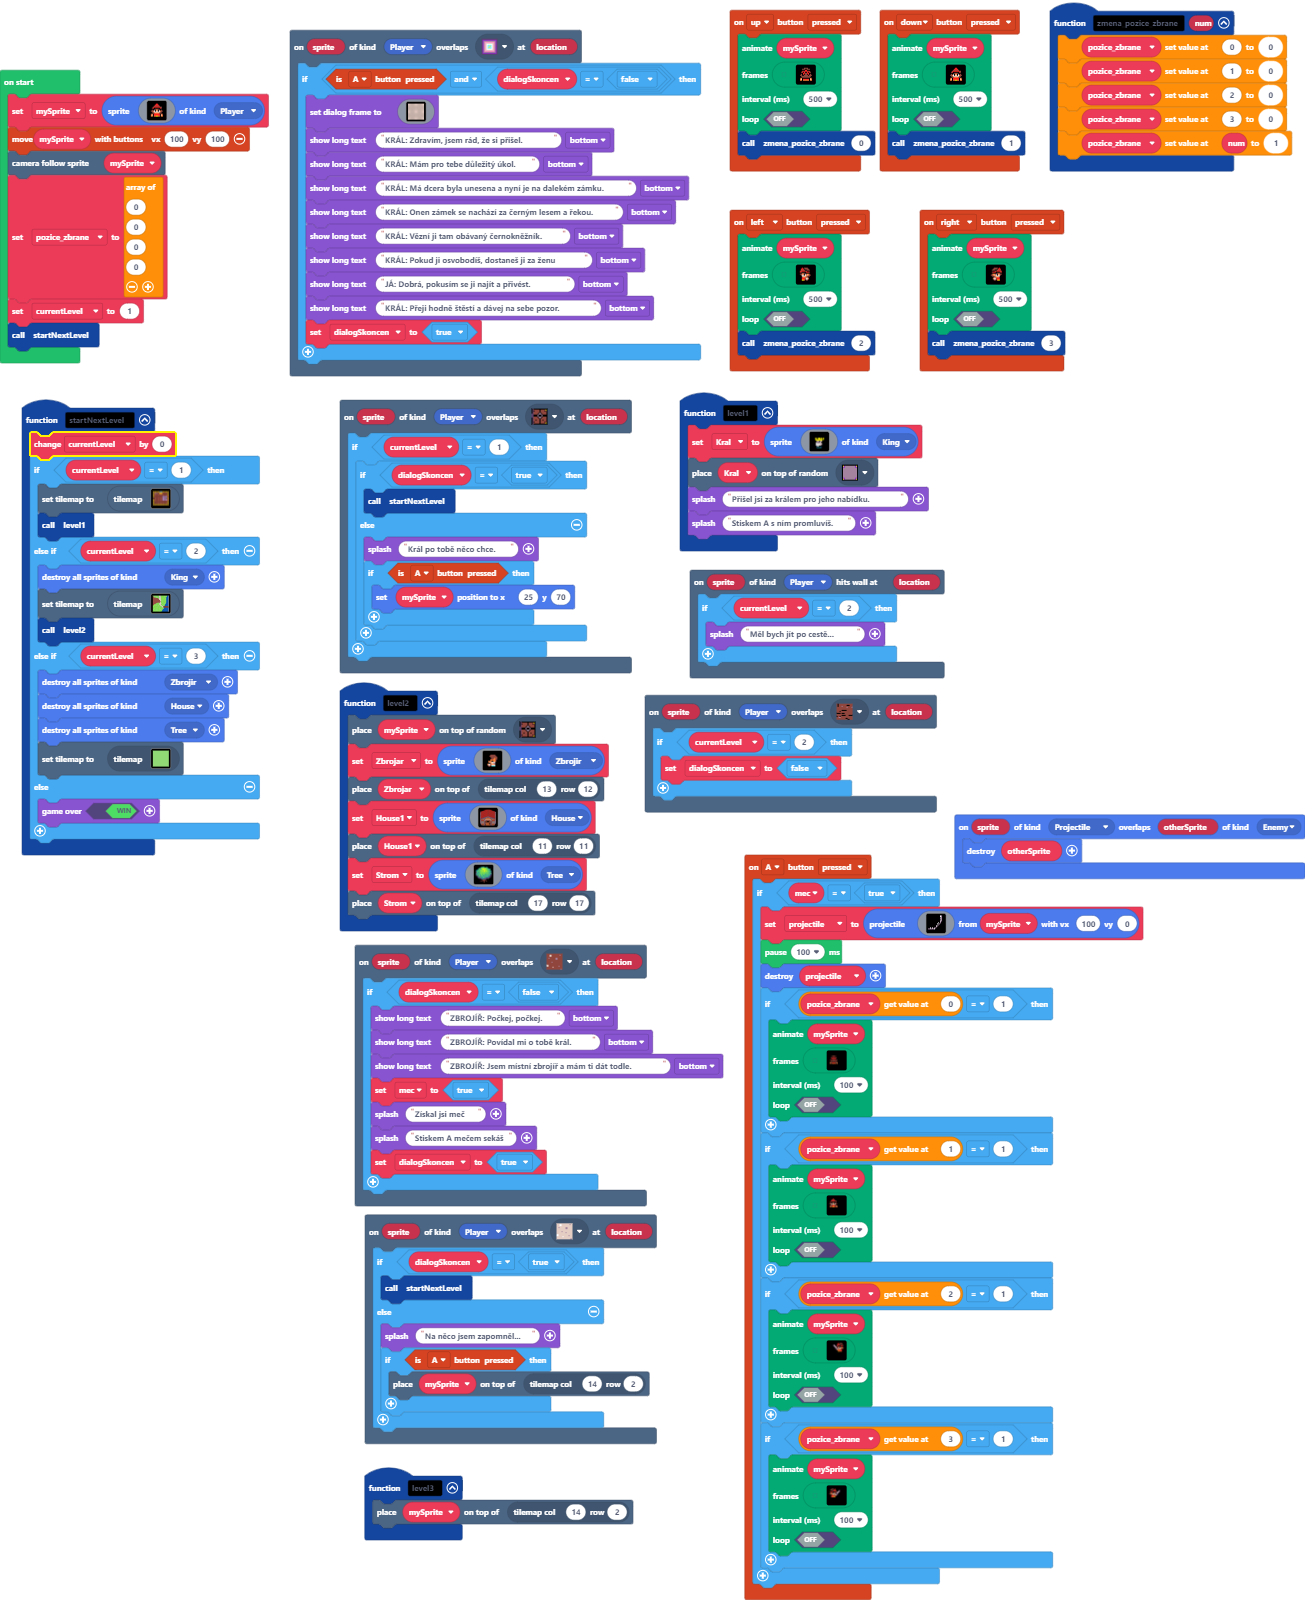
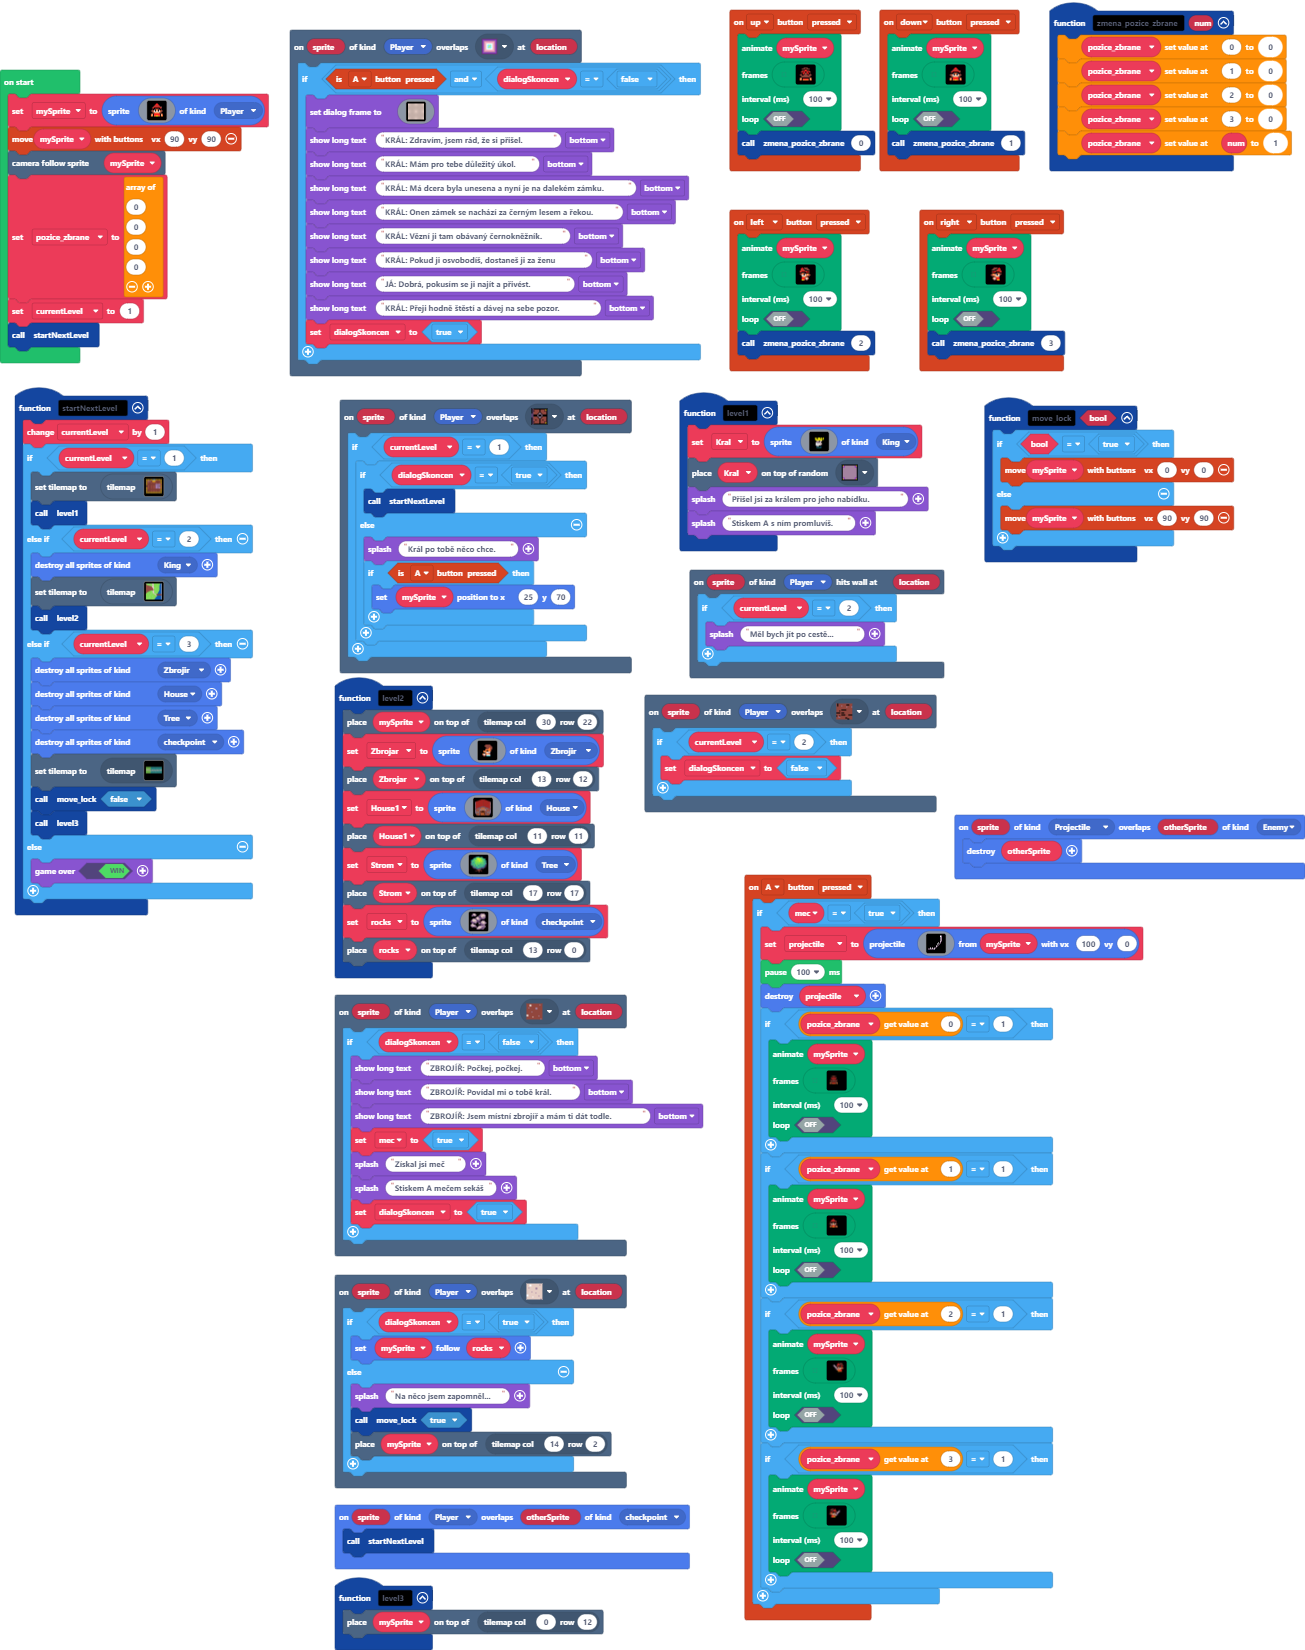
Update main.blocks, main.ts, tilemap.g.jres, tilemap.g.ts, images.g.jres, images.g.ts

diff --git a/tilemap.g.ts b/tilemap.g.ts
@@ -72,6 +72,18 @@ namespace myTiles {
     export const tile34 = image.ofBuffer(hex``);
     //% fixedInstance jres blockIdentity=images._tile
     export const tile35 = image.ofBuffer(hex``);
+    //% fixedInstance jres blockIdentity=images._tile
+    export const tile36 = image.ofBuffer(hex``);
+    //% fixedInstance jres blockIdentity=images._tile
+    export const tile37 = image.ofBuffer(hex``);
+    //% fixedInstance jres blockIdentity=images._tile
+    export const tile38 = image.ofBuffer(hex``);
+    //% fixedInstance jres blockIdentity=images._tile
+    export const tile39 = image.ofBuffer(hex``);
+    //% fixedInstance jres blockIdentity=images._tile
+    export const tile40 = image.ofBuffer(hex``);
+    //% fixedInstance jres blockIdentity=images._tile
+    export const tile41 = image.ofBuffer(hex``);
 
     helpers._registerFactory("tilemap", function(name: string) {
         switch(helpers.stringTrim(name)) {
@@ -189,18 +201,6 @@ namespace myTiles {
 . . . . . . . . . . . . . . . . 
 . . . . . . . . . . . . . . . . 
 `, [myTiles.transparency16], TileScale.Sixteen);
-            case "level1":
[1 lines of base64/hex data omitted]
-2 2 2 2 2 2 2 2 2 2 
-2 . . . . . . . . 2 
-2 . . . . . . . . 2 
-. . . . . . . . . 2 
-. . . . . . . . . 2 
-. . . . . . . . . 2 
-2 . . . . . . . . 2 
-2 . . . . . . . . 2 
-2 2 2 2 2 2 2 2 2 2 
-`, [myTiles.transparency16,myTiles.tile2,myTiles.tile3,myTiles.tile6,myTiles.tile7,myTiles.tile8,myTiles.tile9,myTiles.tile10,myTiles.tile11,myTiles.tile13,myTiles.tile1,myTiles.tile16,myTiles.tile18,myTiles.tile19,myTiles.tile20,sprites.dungeon.chestClosed,myTiles.tile21,sprites.dungeon.chestOpen,myTiles.tile22,myTiles.tile34], TileScale.Sixteen);
             case "level9":
             case "level9":return tiles.createTilemap(hex`1000100000000000000000000000000000000000000000000000000000000000000000000000000000000000000000000000000000000000000000000000000000000000000000000000000000000000000000000000000000000000000000000000000000000000000000000000000000000000000000000000000000000000000000000000000000000000000000000000000000000000000000000000000000000000000000000000000000000000000000000000000000000000000000000000000000000000000000000000000000000000000000000000000000000000000000000000000000000000000000000000000000000000000000000000000000000000`, img`
 . . . . . . . . . . . . . . . . 
@@ -467,8 +467,67 @@ namespace myTiles {
 . . . . . . . . . . . . . . . . 
 . . . . . . . . . . . . . . . . 
 `, [myTiles.transparency16], TileScale.Sixteen);
+            case "level23":
+            case "level23":return tiles.createTilemap(hex`1000100000000000000000000000000000000000000000000000000000000000000000000000000000000000000000000000000000000000000000000000000000000000000000000000000000000000000000000000000000000000000000000000000000000000000000000000000000000000000000000000000000000000000000000000000000000000000000000000000000000000000000000000000000000000000000000000000000000000000000000000000000000000000000000000000000000000000000000000000000000000000000000000000000000000000000000000000000000000000000000000000000000000000000000000000000000000`, img`
+. . . . . . . . . . . . . . . . 
+. . . . . . . . . . . . . . . . 
+. . . . . . . . . . . . . . . . 
+. . . . . . . . . . . . . . . . 
+. . . . . . . . . . . . . . . . 
+. . . . . . . . . . . . . . . . 
+. . . . . . . . . . . . . . . . 
+. . . . . . . . . . . . . . . . 
+. . . . . . . . . . . . . . . . 
+. . . . . . . . . . . . . . . . 
+. . . . . . . . . . . . . . . . 
+. . . . . . . . . . . . . . . . 
+. . . . . . . . . . . . . . . . 
+. . . . . . . . . . . . . . . . 
+. . . . . . . . . . . . . . . . 
+. . . . . . . . . . . . . . . . 
+`, [myTiles.transparency16], TileScale.Sixteen);
+            case "level1":
[1 lines of base64/hex data omitted]
+2 2 2 2 2 2 2 2 2 2 
+2 . . . . . . . . 2 
+2 . . . . . . . . 2 
+. . . . . . . . . 2 
+. . . . . . . . . 2 
+. . . . . . . . . 2 
+2 . . . . . . . . 2 
+2 . . . . . . . . 2 
+2 2 2 2 2 2 2 2 2 2 
+`, [myTiles.transparency16,myTiles.tile2,myTiles.tile3,myTiles.tile6,myTiles.tile7,myTiles.tile8,myTiles.tile9,myTiles.tile10,myTiles.tile11,myTiles.tile13,myTiles.tile1,myTiles.tile16,myTiles.tile18,myTiles.tile19,myTiles.tile20,sprites.dungeon.chestClosed,myTiles.tile21,sprites.dungeon.chestOpen,myTiles.tile22,myTiles.tile34], TileScale.Sixteen);
+            case "level0":
[1 lines of base64/hex data omitted]
+2.............2222..............................................
+2...........222.................................................
+2.........222...................................................
+2.......222.....................................................
+2......22.......................................................
+2....22.........................................................
+2..22...........................................................
+2.22............................................................
+22..............................................................
+2...............................................................
+2...............................................................
+................................................................
+................................................................
+................................................................
+2...............................................................
+2...............................................................
+2...............................................................
+2...............................................................
+222.............................................................
+2.222...........................................................
+2...222.........................................................
+2.....22........................................................
+2......222......................................................
+2........2222...................................................
+2............2222...............................................
+`, [myTiles.transparency16,sprites.castle.tilePath5,sprites.castle.tileGrass1,sprites.castle.tileGrass2,sprites.castle.tileGrass3,sprites.castle.tilePath7,sprites.castle.tilePath1,sprites.castle.tilePath2,sprites.castle.tilePath3,sprites.castle.tilePath8,sprites.castle.tilePath9,sprites.castle.tileDarkGrass1,myTiles.tile35,sprites.castle.tileDarkGrass3,sprites.castle.tileDarkGrass2,myTiles.tile36,myTiles.tile37,myTiles.tile38,sprites.castle.tilePath6,myTiles.tile39,myTiles.tile40,myTiles.tile41], TileScale.Sixteen);
             case "level2":
[2 lines of base64/hex data omitted]
 2.......2...........22.......222
 2.......2............2......2222
 2.......2............22222222222
@@ -502,44 +561,6 @@ namespace myTiles {
 2................222222222222222
 22222222222222222222222222222222
 `, [myTiles.transparency16,sprites.castle.tileGrass2,myTiles.tile13,sprites.castle.tilePath9,sprites.castle.tilePath3,sprites.castle.tilePath8,sprites.castle.tilePath5,myTiles.tile23,sprites.castle.tileGrass3,sprites.castle.tilePath2,sprites.castle.tilePath7,sprites.castle.tilePath4,myTiles.tile24,sprites.castle.tileGrass1,myTiles.tile25,myTiles.tile26,myTiles.tile29,myTiles.tile32,sprites.castle.tilePath6,myTiles.tile30,sprites.castle.tilePath1,myTiles.tile35], TileScale.Sixteen);
-            case "level23":
-            case "level23":return tiles.createTilemap(hex`1000100000000000000000000000000000000000000000000000000000000000000000000000000000000000000000000000000000000000000000000000000000000000000000000000000000000000000000000000000000000000000000000000000000000000000000000000000000000000000000000000000000000000000000000000000000000000000000000000000000000000000000000000000000000000000000000000000000000000000000000000000000000000000000000000000000000000000000000000000000000000000000000000000000000000000000000000000000000000000000000000000000000000000000000000000000000000`, img`
-. . . . . . . . . . . . . . . . 
-. . . . . . . . . . . . . . . . 
-. . . . . . . . . . . . . . . . 
-. . . . . . . . . . . . . . . . 
-. . . . . . . . . . . . . . . . 
-. . . . . . . . . . . . . . . . 
-. . . . . . . . . . . . . . . . 
-. . . . . . . . . . . . . . . . 
-. . . . . . . . . . . . . . . . 
-. . . . . . . . . . . . . . . . 
-. . . . . . . . . . . . . . . . 
-. . . . . . . . . . . . . . . . 
-. . . . . . . . . . . . . . . . 
-. . . . . . . . . . . . . . . . 
-. . . . . . . . . . . . . . . . 
-. . . . . . . . . . . . . . . . 
-`, [myTiles.transparency16], TileScale.Sixteen);
-            case "level24":
-            case "level24":return tiles.createTilemap(hex`1000100001010101010101010101010101010101010101010101010101010101010101010101010101010101010101010101010101010101010101010101010101010101010101010101010101010101010101010101010101010101010101010101010101010101010101010101010101010101010101010101010101010101010101010101010101010101010101010101010101010101010101010101010101010101010101010101010101010101010101010101010101010101010101010101010101010101010101010101010101010101010101010101010101010101010101010101010101010101010101010101010101010101010101010101010101010101`, img`
-. . . . . . . . . . . . . . . . 
-. . . . . . . . . . . . . . . . 
-. . . . . . . . . . . . . . . . 
-. . . . . . . . . . . . . . . . 
-. . . . . . . . . . . . . . . . 
-. . . . . . . . . . . . . . . . 
-. . . . . . . . . . . . . . . . 
-. . . . . . . . . . . . . . . . 
-. . . . . . . . . . . . . . . . 
-. . . . . . . . . . . . . . . . 
-. . . . . . . . . . . . . . . . 
-. . . . . . . . . . . . . . . . 
-. . . . . . . . . . . . . . . . 
-. . . . . . . . . . . . . . . . 
-. . . . . . . . . . . . . . . . 
-. . . . . . . . . . . . . . . . 
-`, [myTiles.transparency16,sprites.castle.tileGrass2], TileScale.Sixteen);
         }
         return null;
     })
@@ -617,6 +638,18 @@ namespace myTiles {
             case "tile34":return tile34;
             case "active":
             case "tile35":return tile35;
+            case "trava tmava nahoru":
+            case "tile36":return tile36;
+            case "trava tmava nahoru vlevo":
+            case "tile37":return tile37;
+            case "trava tmava nahoru vpravo":
+            case "tile38":return tile38;
+            case "trava tmava dole":
+            case "tile39":return tile39;
+            case "trava tmava vlevo dole":
+            case "tile40":return tile40;
+            case "trava tmava dole vpravo":
+            case "tile41":return tile41;
         }
         return null;
     })

diff --git a/main.ts b/main.ts
@@ -3,6 +3,7 @@ namespace SpriteKind {
     export const Zbrojir = SpriteKind.create()
     export const House = SpriteKind.create()
     export const Tree = SpriteKind.create()
+    export const checkpoint = SpriteKind.create()
 }
 namespace StrProp {
     export const Name = StrProp.create()
@@ -80,7 +81,7 @@ controller.up.onEvent(ControllerButtonEvent.Pressed, function () {
         . . . 4 e e f f f f f f e . . . 
         . . . . . . . . . f f f . . . . 
         `],
-    500,
+    100,
     false
     )
     zmena_pozice_zbrane(0)
@@ -608,13 +609,13 @@ controller.left.onEvent(ControllerButtonEvent.Pressed, function () {
         . . f f f f f f f f f f . . . . 
         . . . f f f . . . f f . . . . . 
         `],
-    500,
+    100,
     false
     )
     zmena_pozice_zbrane(2)
 })
 function level3 () {
-    tiles.placeOnTile(mySprite, tiles.getTileLocation(14, 2))
+    tiles.placeOnTile(mySprite, tiles.getTileLocation(0, 12))
 }
 function startNextLevel () {
     currentLevel += 1
@@ -629,7 +630,10 @@ function startNextLevel () {
         sprites.destroyAllSpritesOfKind(SpriteKind.Zbrojir)
         sprites.destroyAllSpritesOfKind(SpriteKind.House)
         sprites.destroyAllSpritesOfKind(SpriteKind.Tree)
-        tiles.setCurrentTilemap(tilemap`level24`)
+        sprites.destroyAllSpritesOfKind(SpriteKind.checkpoint)
+        tiles.setCurrentTilemap(tilemap`level0`)
+        move_lock(false)
+        level3()
     } else {
         game.over(true)
     }
@@ -646,7 +650,7 @@ scene.onOverlapTile(SpriteKind.Player, assets.tile`hlina`, function (sprite, loc
     }
 })
 function level2 () {
-    tiles.placeOnRandomTile(mySprite, assets.tile`dvere kral`)
+    tiles.placeOnTile(mySprite, tiles.getTileLocation(30, 22))
     Zbrojar = sprites.create(assets.image`Lucistnik`, SpriteKind.Zbrojir)
     tiles.placeOnTile(Zbrojar, tiles.getTileLocation(13, 12))
     House1 = sprites.create(img`
@@ -735,6 +739,8 @@ function level2 () {
         ................e...............
         `, SpriteKind.Tree)
     tiles.placeOnTile(Strom, tiles.getTileLocation(17, 17))
+    rocks = sprites.create(assets.image`rock`, SpriteKind.checkpoint)
+    tiles.placeOnTile(rocks, tiles.getTileLocation(13, 0))
 }
 controller.right.onEvent(ControllerButtonEvent.Pressed, function () {
     animation.runImageAnimation(
@@ -808,7 +814,7 @@ controller.right.onEvent(ControllerButtonEvent.Pressed, function () {
         . . . . f f f f f f f f f f . . 
         . . . . . f f . . . f f f . . . 
         `],
-    500,
+    100,
     false
     )
     zmena_pozice_zbrane(3)
@@ -849,6 +855,9 @@ scene.onOverlapTile(SpriteKind.Player, assets.tile`koberec0`, function (sprite, 
         game.showLongText("KRÁL: Přeji hodně štěstí a dávej na sebe pozor.", DialogLayout.Bottom)
         dialogSkoncen = true
     }
+})
+sprites.onOverlap(SpriteKind.Player, SpriteKind.checkpoint, function (sprite, otherSprite) {
+    startNextLevel()
 })
 controller.down.onEvent(ControllerButtonEvent.Pressed, function () {
     animation.runImageAnimation(
@@ -922,19 +931,25 @@ controller.down.onEvent(ControllerButtonEvent.Pressed, function () {
         . . . . . f f f f f f f . . . . 
         . . . . . . . . . f f f . . . . 
         `],
-    500,
+    100,
     false
     )
     zmena_pozice_zbrane(1)
 })
+function move_lock (bool: boolean) {
+    if (bool == true) {
+        controller.moveSprite(mySprite, 0, 0)
+    } else {
+        controller.moveSprite(mySprite, 90, 90)
+    }
+}
 scene.onOverlapTile(SpriteKind.Player, assets.tile`active`, function (sprite, location) {
     if (dialogSkoncen == true) {
-        startNextLevel()
+        mySprite.follow(rocks)
     } else {
         game.splash("Na něco jsem zapomněl...")
-        if (controller.A.isPressed()) {
-            tiles.placeOnTile(mySprite, tiles.getTileLocation(14, 2))
-        }
+        move_lock(true)
+        tiles.placeOnTile(mySprite, tiles.getTileLocation(14, 2))
     }
 })
 sprites.onOverlap(SpriteKind.Projectile, SpriteKind.Enemy, function (sprite, otherSprite) {
@@ -952,6 +967,7 @@ scene.onOverlapTile(SpriteKind.Player, assets.tile`dvere kral`, function (sprite
         }
     }
 })
+let rocks: Sprite = null
 let Strom: Sprite = null
 let House1: Sprite = null
 let Zbrojar: Sprite = null
@@ -980,7 +996,7 @@ mySprite = sprites.create(img`
     . . . . . f f f f f f . . . . . 
     . . . . . f f . . f f . . . . . 
     `, SpriteKind.Player)
-controller.moveSprite(mySprite, 100, 100)
+controller.moveSprite(mySprite, 90, 90)
 scene.cameraFollowSprite(mySprite)
 pozice_zbrane = [
 0,
@@ -988,5 +1004,5 @@ pozice_zbrane = [
 0,
 0
 ]
-currentLevel = 0
+currentLevel = 1
 startNextLevel()

diff --git a/images.g.ts b/images.g.ts
@@ -41,6 +41,25 @@ b b b b b b 1 . . . . . . . . .
 . . . . . . . . . . . . . . . . 
 . . . . . . . . . . . . . . . . 
 `;
+            case "image3":
+            case "rock":return img`
+. . b d b . . . . . b b b b . . 
+. c b d d b . . . b b d d d b . 
+. b c c b . . . b c d d d d b . 
+. . . . . . b b c c b d b b b . 
+. . . . . b d d b c c b b b c . 
+. . b b b c d d b b c c c c . . 
+. b d d d b c b b c . . . . . . 
+c b d d d d c c c c . b b b . . 
+c c b b b b c c c . b d d d b . 
+. c c c b b . . b c b b d d b b 
+. b b . . . . . b c c b b b b . 
+b d d b b . . . . . c c c b . . 
+b b d d b c . . b b b b b b b . 
+. b c c c b . b d d d b b c b . 
+. . . . . . b d d d b c c b . . 
+. . . . . . b b b c c c b . . . 
+`;
         }
         return null;
     })
